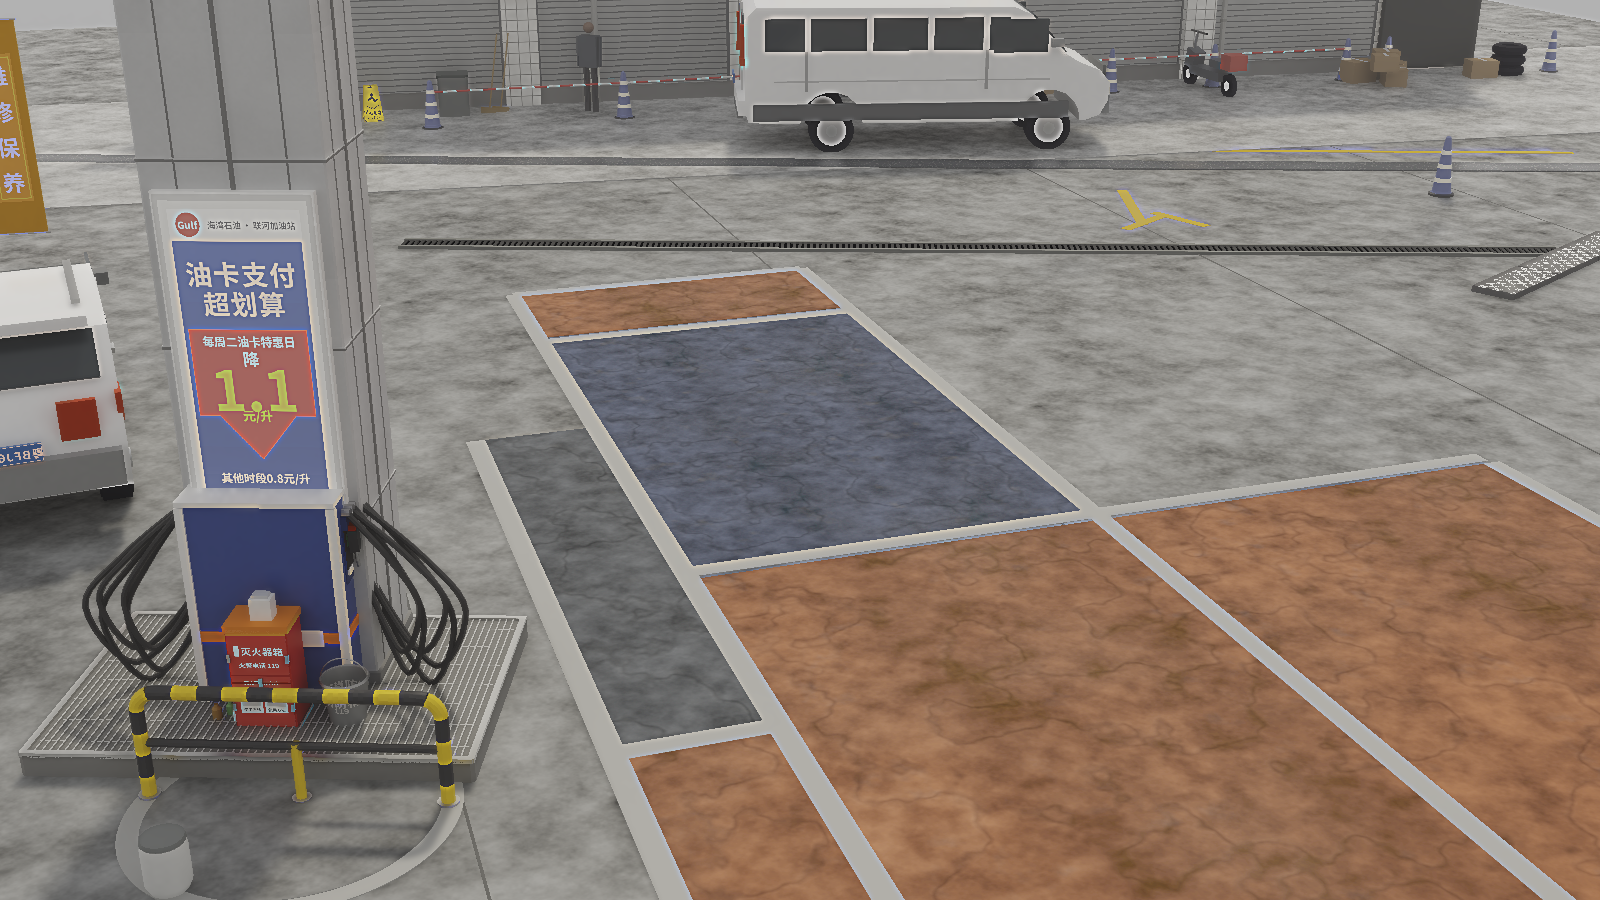
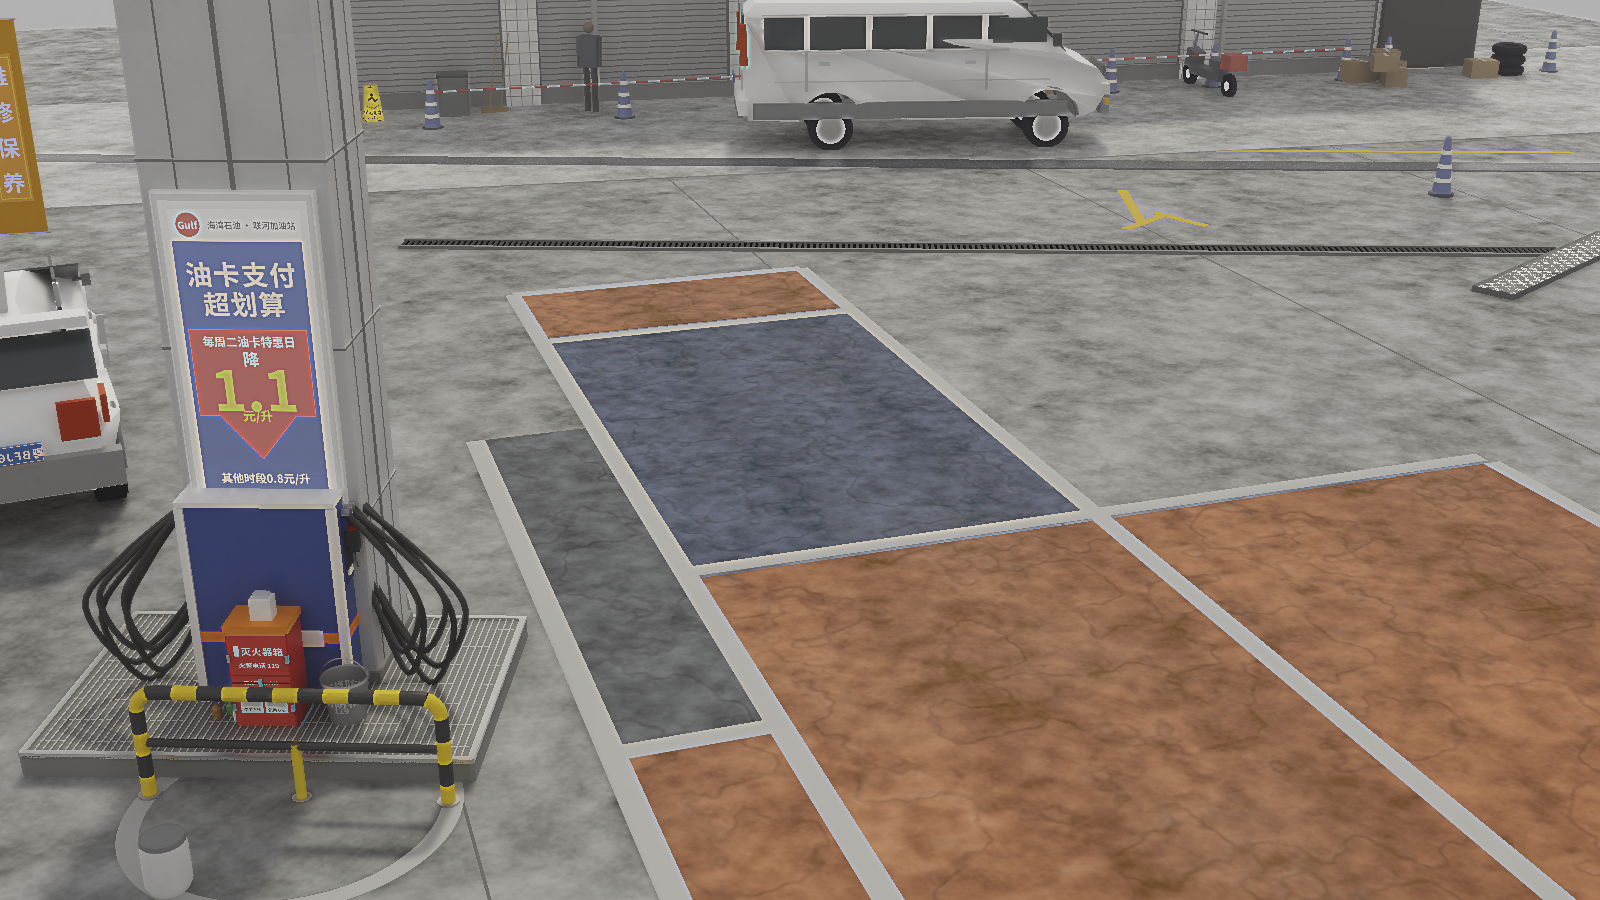
subdivision off on the vehicles: triangle caps band at every level

diff --git a/examples/cases/forecourt/parts.py b/examples/cases/forecourt/parts.py
@@ -158,11 +158,12 @@ def loft(poly, half_width, n_smooth=0, crease_angle=20.0):
     wheel-arch openings all melted into the body and it came out looking poured rather than
     pressed. What should round is the cross-section, not the profile.
 
-    One level, not two. The side caps are ear-clipped TRIANGLES and Catmull-Clark wants
-    quads: a second level spreads the triangulation's unevenness into visible diagonal
-    banding across a flat flank. One level rounds the arrises and leaves the panels alone,
-    which is all that was wanted. The proper fix is an all-quad lofted tube, and that is a
-    bigger change than this scene needs."""
+    `n_smooth` DEFAULTS OFF, and the vehicles use it that way. The side caps are ear-clipped
+    TRIANGLES and Catmull-Clark wants quads: subdividing them spreads the triangulation's
+    unevenness into diagonal banding straight across a flat flank, at one level as much as
+    at two. The loft's tumblehome plus the tracer's --smooth-angle shading gives the rounded
+    READ without inventing geometry that is not there, which is the honest trade until the
+    cage is rebuilt as an all-quad tube."""
     poly = [list(q) for q in poly]
     area = sum((poly[(i + 1) % len(poly)][0] - poly[i][0]) *
                (poly[(i + 1) % len(poly)][1] + poly[i][1]) for i in range(len(poly)))
@@ -804,7 +805,7 @@ def van():
         return w * (1.0 - 0.36 * max(0.0, (x - 2.05) / 0.95) ** 2)   # the nose draws in
 
     p = MeshProgram()
-    p.place(loft(side, hw, n_smooth=1), material=BODY_WH)
+    p.place(loft(side, hw), material=BODY_WH)
     body = mat((0.235, 0.24, 0.25), 0.0, 0.42)
     trim = mat((0.50, 0.505, 0.51), 0.0, 0.35)
     # Everything on the flank rides ON the loft. A constant offset leaves the glass hanging
@@ -892,7 +893,7 @@ def suv():
         return w * (1.0 - 0.30 * max(0.0, (x - 1.5) / 0.9) ** 2
                     - 0.22 * max(0.0, (-1.4 - x) / 0.9) ** 2)
     p = MeshProgram()
-    p.place(loft(side, hw, n_smooth=1), material=BODY_WH)
+    p.place(loft(side, hw), material=BODY_WH)
     trim = mat((0.45, 0.455, 0.46), 0.0, 0.35)
 
     def flank(x, z, out=0.0):
